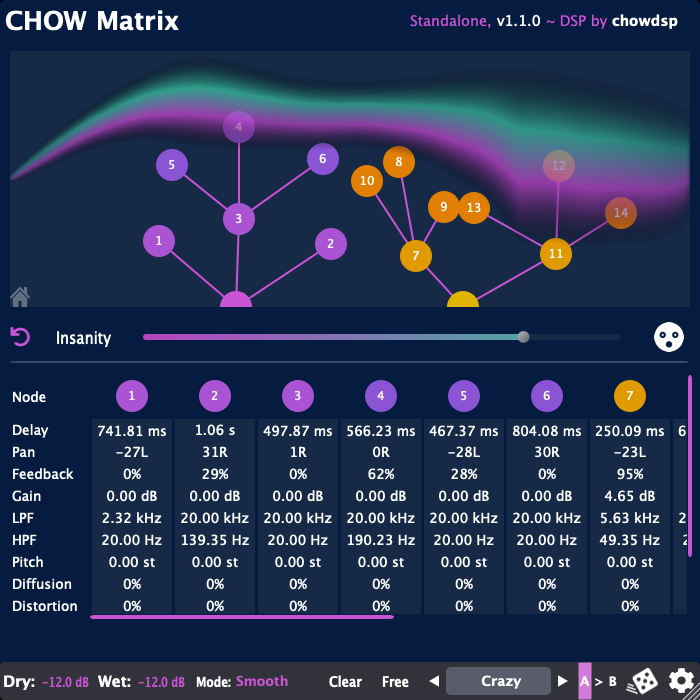
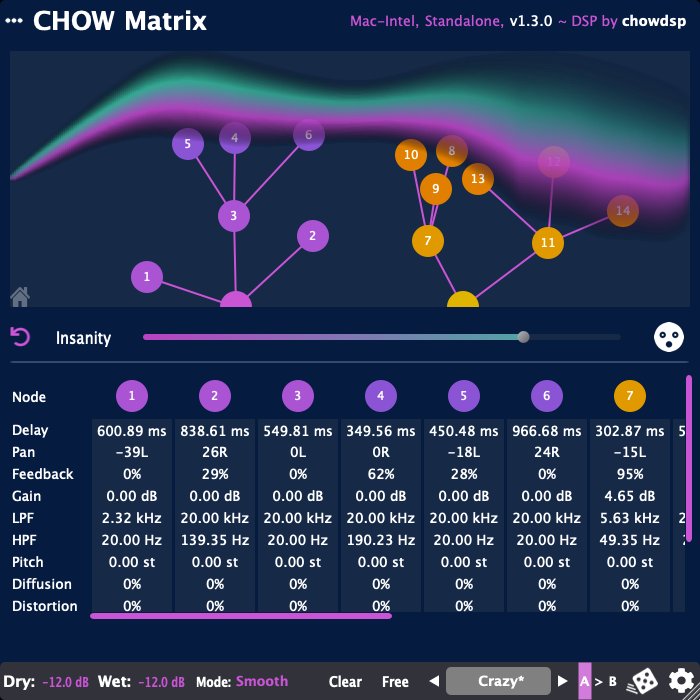
Update screenshots

diff --git a/src/headless/ScreenshotGenerator.cpp b/src/headless/ScreenshotGenerator.cpp
@@ -19,8 +19,11 @@ void ScreenshotGenerator::takeScreenshots (const ArgumentList& args)
     std::cout << "Generating screenshots... Saving to " << outputDir.getFullPathName() << std::endl;
 
     std::unique_ptr<AudioProcessor> plugin (createPluginFilterOfType (AudioProcessor::WrapperType::wrapperType_Standalone));
-    plugin->setCurrentProgram (3); // set to "crazy" preset
+    plugin->setCurrentProgram (2); // set to "crazy" preset
+    MessageManager::getInstance()->runDispatchLoopUntil (1000);
+
     std::unique_ptr<AudioProcessorEditor> editor (plugin->createEditorIfNeeded());
+    MessageManager::getInstance()->runDispatchLoopUntil (1000);
 
     editor->setSize (700, 700); // make editor larger
     screenshotForBounds (editor.get(), editor->getLocalBounds(), outputDir, "full_gui.png");
